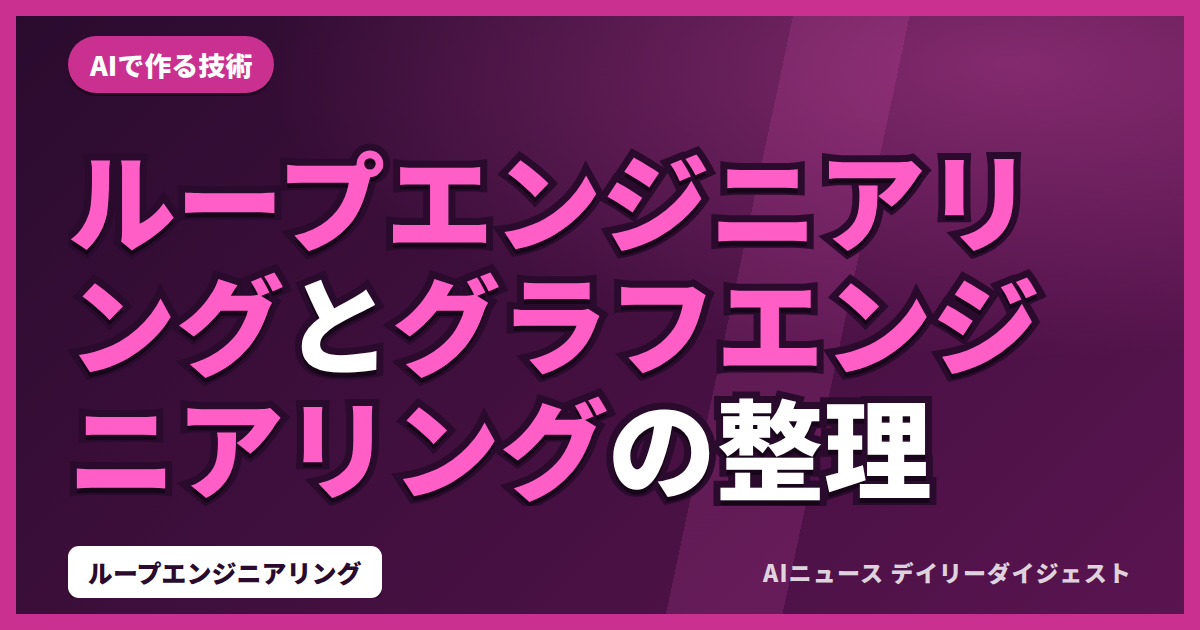
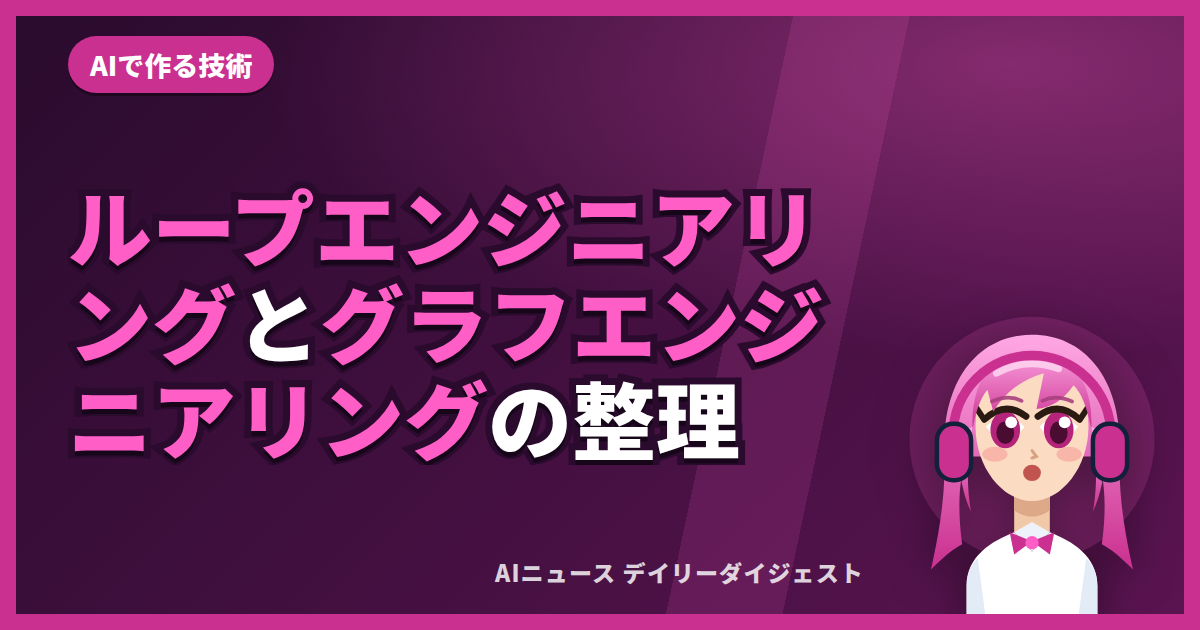
サムネイルにキャラクターを追加(SVGで自作)
技術ブログでも絵があるほうが一覧で目に留まるため、右側にキャラクターを置いた。
髪と瞳はカテゴリ色で塗り分け、表情は記事ごとに3種(笑顔/驚き/ウインク)から選ぶ。

**SVGで自作した。外部の画像や他人のイラストは使っていない。**
参考にしたチャンネルのキャラクターをコピーするのも不可、と CLAUDE.md に明記した。

キャラクターのぶん文字の幅が狭くなるので、あわせて調整した。
- 本文・上段・下段それぞれにキャラクターぶんの余白を確保(重なりを解消)
- 行数は常に3行を許し、縦幅で頭打ちにする。行数を減らして字を大きくすると
  "Fargate" のような分割できない英単語で折り返しが破綻し、末尾が "…" で切れる
- overflow-wrap:anywhere を足して、長い英単語も折り返せるようにした
- タグの表示幅の上限を下げた

それでも切れる4記事は meta.json の thumb で短い決め文句を指定した
(記事の内容と食い違わない範囲で)。

全25枚を目視確認。1200x630、内容の重複なし。表示検証52通りで問題なし。

diff --git a/_render_thumbs.py b/_render_thumbs.py
@@ -53,15 +53,22 @@ CONTENTS = HERE / "contents"
 FONTS = HERE / "_assets" / "fonts"
 CHROMIUM = "/opt/pw-browsers/chromium"
 WIDTH, HEIGHT = 1200, 630
+CHARA_W = 268                      # 右側にキャラクターが占める幅
+CHARA_H = int(CHARA_W * 420 / 360)  # viewBox の比率を保つ
 
 # カテゴリごとの配色。一覧に並べたとき、色だけで種類が分かるようにする。
 #   bg1/bg2 = 背景のグラデーション、accent = 決め文句の色、chip = カテゴリ札の色
 THEMES = {
-    "デイリーダイジェスト": dict(bg1="#0b1f3a", bg2="#123a6b", accent="#4da3ff", chip="#2a78d6"),
-    "AIで作る技術":        dict(bg1="#2a0b2e", bg2="#5a1450", accent="#ff5ec7", chip="#c9308f"),
-    "Web開発・インフラ":   dict(bg1="#2b1405", bg2="#5e2f08", accent="#ffa43d", chip="#e07b1a"),
-    "クライアント技術":     dict(bg1="#04241b", bg2="#0a4f39", accent="#3ede9f", chip="#12996b"),
-    "チームで作る技術":     dict(bg1="#2c2405", bg2="#5c4c0a", accent="#ffd93d", chip="#d0a611"),
+    "デイリーダイジェスト": dict(bg1="#0b1f3a", bg2="#123a6b", accent="#4da3ff", chip="#2a78d6",
+                          h1="#7fc4ff", h2="#2a6fd0", hi="#cfe8ff", iris="#1b64c4", pupil="#0b2a52", brow="#3a6ea8"),
+    "AIで作る技術":        dict(bg1="#2a0b2e", bg2="#5a1450", accent="#ff5ec7", chip="#c9308f",
+                          h1="#ffa8e4", h2="#c9308f", hi="#ffd9f2", iris="#b3247a", pupil="#4a0c30", brow="#a8407e"),
+    "Web開発・インフラ":   dict(bg1="#2b1405", bg2="#5e2f08", accent="#ffa43d", chip="#e07b1a",
+                          h1="#ffcf8a", h2="#d97a12", hi="#ffeccc", iris="#c06a10", pupil="#4a2a04", brow="#b5761f"),
+    "クライアント技術":     dict(bg1="#04241b", bg2="#0a4f39", accent="#3ede9f", chip="#12996b",
+                          h1="#8ff0c6", h2="#12996b", hi="#d6fdec", iris="#0e7a52", pupil="#03301f", brow="#2f8f68"),
+    "チームで作る技術":     dict(bg1="#2c2405", bg2="#5c4c0a", accent="#ffd93d", chip="#d0a611",
+                          h1="#ffe98a", h2="#c99f0d", hi="#fff6cc", iris="#a8830a", pupil="#3d2f01", brow="#a8871f"),
 }
 DEFAULT_THEME = THEMES["デイリーダイジェスト"]
 
@@ -100,20 +107,16 @@ def dwidth(text):
 
 
 def size_for(text, avail_px, avail_h, cap, floor, max_lines=3, lh=1.16):
-    """avail_px x avail_h に収まる最大の文字サイズと、必要な行数を返す。
+    """avail_px x avail_h に max_lines 行で収まる最大の文字サイズを返す。
 
-    横だけで決めると、行が増えたときに縦がはみ出す。両方で抑える。
-    折り返し位置は実際には読点や英単語で決まるので、横は少し余裕(0.92)を見る。
+    行数は常に max_lines を許す。行数を減らして字を大きくしようとすると、
+    "Fargate" のような分割できない英単語が来たときに折り返しが読めず、
+    末尾が "…" で切れる。行数に余裕を持たせ、縦幅で頭打ちにするほうが安全。
     """
     w = dwidth(text) or 1
-    best = (floor, max_lines)
-    for lines in range(1, max_lines + 1):
-        by_w = int(2 * avail_px * lines * 0.92 / w)      # lines 行に収まる大きさ
-        by_h = int(avail_h / (lines * lh))               # lines 行が縦に収まる大きさ
-        px = min(cap, by_w, by_h)
-        if px > best[0]:
-            best = (px, lines)
-    return max(floor, best[0]), best[1]
+    by_w = int(2 * avail_px * max_lines * 0.92 / w)   # max_lines 行に収まる大きさ
+    by_h = int(avail_h / (max_lines * lh))            # max_lines 行が縦に収まる大きさ
+    return max(floor, min(cap, by_w, by_h)), max_lines
 
 
 def emphasize(text, terms, e):
@@ -140,6 +143,152 @@ def emphasize(text, terms, e):
     return "".join(out)
 
 
+FACES = {
+    # 0=笑顔 / 1=驚き / 2=ウインク。記事ごとに変えて、並べたとき単調にならないようにする
+    0: """<ellipse cx="142" cy="160" rx="21" ry="26" fill="{ac}"/>
+       <ellipse cx="218" cy="160" rx="21" ry="26" fill="{ac}"/>
+       <ellipse cx="149" cy="150" rx="7" ry="9" fill="#fff"/>
+       <ellipse cx="225" cy="150" rx="7" ry="9" fill="#fff"/>
+       <path d="M162 198 q18 18 36 0" stroke="{ac}" stroke-width="9" stroke-linecap="round" fill="none"/>""",
+    1: """<circle cx="142" cy="158" r="25" fill="{ac}"/>
+       <circle cx="218" cy="158" r="25" fill="{ac}"/>
+       <circle cx="150" cy="148" r="8" fill="#fff"/>
+       <circle cx="226" cy="148" r="8" fill="#fff"/>
+       <ellipse cx="180" cy="203" rx="16" ry="13" fill="{ac}"/>""",
+    2: """<ellipse cx="142" cy="160" rx="21" ry="26" fill="{ac}"/>
+       <ellipse cx="149" cy="150" rx="7" ry="9" fill="#fff"/>
+       <path d="M198 160 q20 -18 40 0" stroke="{ac}" stroke-width="10" stroke-linecap="round" fill="none"/>
+       <path d="M158 196 q22 24 44 0" stroke="{ac}" stroke-width="9" stroke-linecap="round" fill="none"/>""",
+}
+
+
+FACES = {
+    # 0=笑顔 / 1=驚き / 2=ウインク。記事ごとに変えて、並べたとき単調にならないようにする
+    0: """<ellipse cx="142" cy="160" rx="21" ry="26" fill="{ac}"/>
+       <ellipse cx="218" cy="160" rx="21" ry="26" fill="{ac}"/>
+       <ellipse cx="149" cy="150" rx="7" ry="9" fill="#fff"/>
+       <ellipse cx="225" cy="150" rx="7" ry="9" fill="#fff"/>
+       <path d="M162 198 q18 18 36 0" stroke="{ac}" stroke-width="9" stroke-linecap="round" fill="none"/>""",
+    1: """<circle cx="142" cy="158" r="25" fill="{ac}"/>
+       <circle cx="218" cy="158" r="25" fill="{ac}"/>
+       <circle cx="150" cy="148" r="8" fill="#fff"/>
+       <circle cx="226" cy="148" r="8" fill="#fff"/>
+       <ellipse cx="180" cy="203" rx="16" ry="13" fill="{ac}"/>""",
+    2: """<ellipse cx="142" cy="160" rx="21" ry="26" fill="{ac}"/>
+       <ellipse cx="149" cy="150" rx="7" ry="9" fill="#fff"/>
+       <path d="M198 160 q20 -18 40 0" stroke="{ac}" stroke-width="10" stroke-linecap="round" fill="none"/>
+       <path d="M158 196 q22 24 44 0" stroke="{ac}" stroke-width="9" stroke-linecap="round" fill="none"/>""",
+}
+
+
+def mascot_svg(t, variant):
+    """サムネイルに置くマスコット(自作のベクター画像)。
+
+    テーマ色で塗り分け、表情を記事ごとに変える。
+    外部の画像は使わない(他人の著作物を持ち込まないため)。
+    """
+    face = MASCOT_FACES[variant % len(MASCOT_FACES)].format(ac=t["accent"])
+    return f"""<svg class="mascot" viewBox="0 0 360 400" xmlns="http://www.w3.org/2000/svg" fill="none">
+  <circle cx="180" cy="170" r="150" fill="{t['accent']}" opacity=".18"/>
+  <path d="M92 400 v-64 a88 88 0 0 1 176 0 v64Z" fill="#f2f6ff" stroke="#0d1526" stroke-width="9" stroke-linejoin="round"/>
+  <path d="M150 330 l30 34 30-34" fill="none" stroke="{t['chip']}" stroke-width="11" stroke-linecap="round" stroke-linejoin="round"/>
+  <rect x="163" y="284" width="34" height="34" rx="12" fill="#d7e2f5" stroke="#0d1526" stroke-width="9"/>
+  <line x1="180" y1="56" x2="180" y2="26" stroke="#0d1526" stroke-width="10" stroke-linecap="round"/>
+  <circle cx="180" cy="20" r="16" fill="{t['accent']}" stroke="#0d1526" stroke-width="9"/>
+  <rect x="60" y="56" width="240" height="216" rx="70" fill="#ffffff" stroke="#0d1526" stroke-width="10"/>
+  <rect x="88" y="92" width="184" height="144" rx="48" fill="#12203a"/>
+  {face}
+  <rect x="26" y="120" width="46" height="96" rx="22" fill="{t['chip']}" stroke="#0d1526" stroke-width="9"/>
+  <rect x="288" y="120" width="46" height="96" rx="22" fill="{t['chip']}" stroke="#0d1526" stroke-width="9"/>
+</svg>"""
+
+
+# 表情の差分。記事ごとに変えて、一覧が単調にならないようにする。
+FACES = {
+    0: """<path d="M118 168 q26 -26 52 0 q-26 34 -52 0Z" fill="#fff"/>
+  <path d="M190 168 q26 -26 52 0 q-26 34 -52 0Z" fill="#fff"/>
+  <ellipse cx="144" cy="172" rx="19" ry="23" fill="{iris}"/>
+  <ellipse cx="216" cy="172" rx="19" ry="23" fill="{iris}"/>
+  <ellipse cx="144" cy="176" rx="11" ry="14" fill="{pupil}"/>
+  <ellipse cx="216" cy="176" rx="11" ry="14" fill="{pupil}"/>
+  <circle cx="151" cy="163" r="7" fill="#fff"/><circle cx="223" cy="163" r="7" fill="#fff"/>
+  <circle cx="138" cy="185" r="4" fill="#fff" opacity=".85"/>
+  <circle cx="210" cy="185" r="4" fill="#fff" opacity=".85"/>
+  <path d="M116 160 q28 -24 56 -2" stroke="#2b1a12" stroke-width="9" fill="none" stroke-linecap="round"/>
+  <path d="M188 158 q28 -22 56 2" stroke="#2b1a12" stroke-width="9" fill="none" stroke-linecap="round"/>
+  <path d="M114 156 l-8 -12" stroke="#2b1a12" stroke-width="8" stroke-linecap="round"/>
+  <path d="M246 156 l8 -12" stroke="#2b1a12" stroke-width="8" stroke-linecap="round"/>
+  <path d="M166 228 q14 14 28 0" stroke="#c2544f" stroke-width="6" fill="none" stroke-linecap="round"/>""",
+    1: """<path d="M118 168 q26 -26 52 0 q-26 34 -52 0Z" fill="#fff"/>
+  <path d="M190 168 q26 -26 52 0 q-26 34 -52 0Z" fill="#fff"/>
+  <ellipse cx="144" cy="172" rx="20" ry="25" fill="{iris}"/>
+  <ellipse cx="216" cy="172" rx="20" ry="25" fill="{iris}"/>
+  <ellipse cx="144" cy="176" rx="12" ry="15" fill="{pupil}"/>
+  <ellipse cx="216" cy="176" rx="12" ry="15" fill="{pupil}"/>
+  <circle cx="152" cy="162" r="8" fill="#fff"/><circle cx="224" cy="162" r="8" fill="#fff"/>
+  <path d="M116 158 q28 -26 56 -4" stroke="#2b1a12" stroke-width="9" fill="none" stroke-linecap="round"/>
+  <path d="M188 154 q28 -22 56 4" stroke="#2b1a12" stroke-width="9" fill="none" stroke-linecap="round"/>
+  <path d="M114 156 l-8 -12" stroke="#2b1a12" stroke-width="8" stroke-linecap="round"/>
+  <path d="M246 156 l8 -12" stroke="#2b1a12" stroke-width="8" stroke-linecap="round"/>
+  <ellipse cx="180" cy="230" rx="12" ry="11" fill="#c2544f"/>""",
+    2: """<path d="M118 168 q26 -26 52 0 q-26 34 -52 0Z" fill="#fff"/>
+  <ellipse cx="144" cy="172" rx="19" ry="23" fill="{iris}"/>
+  <ellipse cx="144" cy="176" rx="11" ry="14" fill="{pupil}"/>
+  <circle cx="151" cy="163" r="7" fill="#fff"/>
+  <circle cx="138" cy="185" r="4" fill="#fff" opacity=".85"/>
+  <path d="M116 160 q28 -24 56 -2" stroke="#2b1a12" stroke-width="9" fill="none" stroke-linecap="round"/>
+  <path d="M114 156 l-8 -12" stroke="#2b1a12" stroke-width="8" stroke-linecap="round"/>
+  <path d="M192 172 q24 -20 48 0" stroke="#2b1a12" stroke-width="9" fill="none" stroke-linecap="round"/>
+  <path d="M246 156 l8 -12" stroke="#2b1a12" stroke-width="8" stroke-linecap="round"/>
+  <path d="M164 226 q16 18 32 0" stroke="#c2544f" stroke-width="6" fill="none" stroke-linecap="round"/>""",
+}
+
+
+def character_svg(t, variant, uid):
+    """サムネイルに置くキャラクター(自作のベクター画像)。
+
+    テーマ色で髪と瞳を塗り分け、表情を記事ごとに変える。
+    **外部の画像・他人のイラストは使いません。**
+    グラデーションのidは記事ごとに変える(同一ページに複数置いても混ざらないように)。
+    """
+    face = FACES[variant % len(FACES)].format(iris=t["iris"], pupil=t["pupil"])
+    g = f"hair{uid}"
+    return f"""<svg class="chara" viewBox="0 0 360 420" xmlns="http://www.w3.org/2000/svg">
+ <defs><linearGradient id="{g}" x1="0" y1="0" x2="0" y2="1">
+   <stop offset="0" stop-color="{t['h1']}"/><stop offset="1" stop-color="{t['h2']}"/></linearGradient></defs>
+ <circle cx="180" cy="185" r="165" fill="{t['accent']}" opacity=".16"/>
+ <path d="M62 205 C58 105 108 44 180 44 C252 44 302 105 298 205 C296 262 306 316 316 360
+          C300 344 286 332 274 326 C282 268 276 232 268 208 L92 208
+          C84 232 78 268 86 326 C74 332 60 344 44 360 C54 316 64 262 62 205Z" fill="url(#{g})"/>
+ <path d="M156 258 h48 v52 h-48Z" fill="#f2c9a8"/>
+ <path d="M156 258 h48 v22 c-14 12-34 12-48 0Z" fill="#dda887"/>
+ <path d="M92 420 v-38 c0-40 34-60 64-72 l24 26 24-26 c30 12 64 32 64 72 v38Z" fill="#ffffff"/>
+ <path d="M156 310 l24 26 24-26 -24-14Z" fill="#eef3fb"/>
+ <path d="M92 420 v-38 c0-16 6-28 15-37 l10 75Z" fill="#e3ebf7"/>
+ <path d="M268 420 v-38 c0-16-6-28-15-37 l-10 75Z" fill="#e3ebf7"/>
+ <path d="M180 322 l-30 -12 6 30Z" fill="{t['chip']}"/>
+ <path d="M180 322 l30 -12 -6 30Z" fill="{t['chip']}"/>
+ <circle cx="180" cy="324" r="9" fill="{t['accent']}"/>
+ <path d="M104 168 C104 102 146 74 180 74 C214 74 256 102 256 168
+          C256 222 220 268 180 268 C140 268 104 222 104 168Z" fill="#fbdcc2"/>
+ <ellipse cx="130" cy="205" rx="17" ry="10" fill="#f7a9a0" opacity=".75"/>
+ <ellipse cx="230" cy="205" rx="17" ry="10" fill="#f7a9a0" opacity=".75"/>
+ {face}
+ <path d="M180 200 l6 8 -6 2" stroke="#d9a183" stroke-width="4" fill="none" stroke-linecap="round"/>
+ <path d="M100 172 C96 100 138 58 180 58 C222 58 264 100 260 172
+          C254 140 246 122 236 112 C222 132 206 142 186 144
+          L196 96 C168 104 142 122 128 148 L120 118 C110 130 104 148 100 172Z" fill="url(#{g})"/>
+ <path d="M126 134 q22 -10 40 -1" stroke="{t['brow']}" stroke-width="5" fill="none" stroke-linecap="round" opacity=".9"/>
+ <path d="M194 133 q18 -9 40 1" stroke="{t['brow']}" stroke-width="5" fill="none" stroke-linecap="round" opacity=".9"/>
+ <path d="M100 168 C92 210 92 250 98 282 C86 258 78 214 82 176Z" fill="url(#{g})"/>
+ <path d="M260 168 C268 210 268 250 262 282 C274 258 282 214 278 176Z" fill="url(#{g})"/>
+ <path d="M132 96 q40 -22 84 -6" stroke="{t['hi']}" stroke-width="9" fill="none" stroke-linecap="round" opacity=".8"/>
+ <path d="M74 178 a106 106 0 0 1 212 0" stroke="{t['chip']}" stroke-width="13" fill="none" stroke-linecap="round"/>
+ <rect x="52" y="164" width="46" height="76" rx="22" fill="{t['chip']}" stroke="#12203a" stroke-width="6"/>
+ <rect x="262" y="164" width="46" height="76" rx="22" fill="{t['chip']}" stroke="#12203a" stroke-width="6"/>
+</svg>"""
+
+
 def build_html(meta, dirname):
     t = THEMES.get(meta.get("category"), DEFAULT_THEME)
     title = meta.get("title") or dirname
@@ -151,7 +300,7 @@ def build_html(meta, dirname):
 
     # タグは下段に置くが、長いと右側のサイト名とぶつかる。
     # 表示幅の合計で打ち切る(全角1文字=2)。
-    tags, budget = [], 30
+    tags, budget = [], 20
     for x in (meta.get("tags") or []):
         x = str(x)
         if dwidth(x) + 3 > budget:
@@ -163,8 +312,9 @@ def build_html(meta, dirname):
     cat = meta.get("category", "")
     e = htmlmod.escape
 
-    # 内側の使える大きさ。枠16px + 左右パディング52px、上下は帯96+84を引く
-    avail = WIDTH - 2 * 16 - 2 * 52
+    # 内側の使える大きさ。枠16px + 左右パディング52px、上下は帯96+84を引く。
+    # 右にキャラクターを置くので、そのぶんも文字から引く
+    avail = WIDTH - 2 * 16 - 2 * 52 - CHARA_W
     mid_h = HEIGHT - 2 * 16 - 96 - 84
     sub_px, sub_lines = size_for(sub, avail, 120, 40, 26, 2, 1.35) if sub else (0, 0)
     sub_box = int(sub_px * 1.35 * sub_lines) + 22 if sub else 0
@@ -173,6 +323,10 @@ def build_html(meta, dirname):
     faces = (font_face("NotoJP", "NotoSansJP-Black.ttf", 900)
              + font_face("NotoJP", "NotoSansJP-Regular.ttf", 400))
 
+    import hashlib
+    import hashlib
+    uid = hashlib.sha256(dirname.encode()).hexdigest()[:8]
+    chara = character_svg(t, int(uid, 16), uid)
     chips = "".join(f'<span class="tag">{e(x)}</span>' for x in tags)
     main_html = emphasize(main, [str(x) for x in (meta.get("tags") or [])], e)
     return f"""<!doctype html><html lang="ja"><head><meta charset="utf-8"><style>
@@ -193,7 +347,7 @@ body{{font-family:'NotoJP','IPAGothic',sans-serif;background:{t['bg1']}}}
   content:"";position:absolute;inset:0;pointer-events:none;
   background:linear-gradient(102deg, transparent 60%, {t['accent']}22 60%, {t['accent']}22 69%, transparent 69%);
 }}
-.row{{position:relative;z-index:2;display:flex;align-items:center;gap:18px;min-width:0}}
+.row{{position:relative;z-index:2;padding-right:{CHARA_W}px;display:flex;align-items:center;gap:18px;min-width:0}}
 .cat{{
   background:{t['chip']};color:#fff;font-weight:900;font-size:27px;
   padding:9px 22px;border-radius:999px;white-space:nowrap;
@@ -205,10 +359,11 @@ body{{font-family:'NotoJP','IPAGothic',sans-serif;background:{t['bg1']}}}
 }}
 .mid{{
   position:relative;z-index:2;display:flex;flex-direction:column;
-  justify-content:center;gap:22px;min-width:0;
+  justify-content:center;gap:22px;min-width:0;padding-right:{CHARA_W}px;
 }}
 .main{{
   color:#fff;font-weight:900;line-height:1.14;font-size:{main_px}px;
+  overflow-wrap:anywhere;
   -webkit-text-stroke:14px {t['bg1']};paint-order:stroke fill;
   text-shadow:0 5px 0 rgba(0,0,0,.45);
   display:-webkit-box;-webkit-line-clamp:{main_lines};-webkit-box-orient:vertical;overflow:hidden;
@@ -220,7 +375,11 @@ body{{font-family:'NotoJP','IPAGothic',sans-serif;background:{t['bg1']}}}
   text-shadow:0 2px 6px rgba(0,0,0,.7);
   display:-webkit-box;-webkit-line-clamp:2;-webkit-box-orient:vertical;overflow:hidden;
 }}
-.bot{{justify-content:space-between}}
+.bot{{justify-content:space-between;padding-right:{CHARA_W}px}}
+.chara{{
+  position:absolute;right:18px;bottom:0;width:{CHARA_W}px;height:{CHARA_H}px;z-index:1;
+  filter:drop-shadow(0 8px 20px rgba(0,0,0,.5));
+}}
 .tags{{display:flex;gap:12px;overflow:hidden;min-width:0;flex:1 1 auto}}
 .tag{{
   background:#fff;color:{t['bg1']};font-weight:900;font-size:25px;
@@ -229,6 +388,7 @@ body{{font-family:'NotoJP','IPAGothic',sans-serif;background:{t['bg1']}}}
 }}
 .site{{flex:0 0 auto;color:#ffffffd0;font-weight:900;font-size:23px;letter-spacing:.05em;white-space:nowrap}}
 </style></head><body><div class="frame">
+  {chara}
   <div class="row">
     <span class="cat">{e(cat)}</span>
     {f'<span class="hook">{e(hook)}</span>' if hook else ''}

diff --git a/CLAUDE.md b/CLAUDE.md
@@ -202,10 +202,17 @@ _fetch_popular.py     # GoatCounterから閲覧数取得
 どれも上部はトップバー＋白背景＋見出しなので、ホームのカードでは見分けが付かず、
 サムネイルの意味がありませんでした（右下のシェアボタンも写り込んでいました）。
 
-いまはサムネイル専用のデザインを組み立てて描画します。狙いは2つです。
+いまはサムネイル専用のデザインを組み立てて描画します。狙いは3つです。
 
 1. **カテゴリごとに色を変える** — 一覧に並べたとき、色だけで種類が分かる
 2. **決め文句を1つ、極端に大きく置く** — 縮小して読めるのは1〜2行だけ
+3. **キャラクターを右に置く** — 技術ブログでも、絵があるほうが一覧で目に留まる
+
+キャラクターは `_render_thumbs.py` の中に**SVGで自作**したものです（`character_svg()`）。
+髪と瞳はカテゴリ色で塗り分け、表情は記事ごとに3種から選ばれます。
+
+**外部の画像・他人のイラストは絶対に持ち込まないこと。** 参考にしたチャンネルの
+キャラクターをコピーするのも不可です。差し替えるなら自作するか、権利が明確なものだけ。
 
 | カテゴリ | 色 |
 |---|---|
